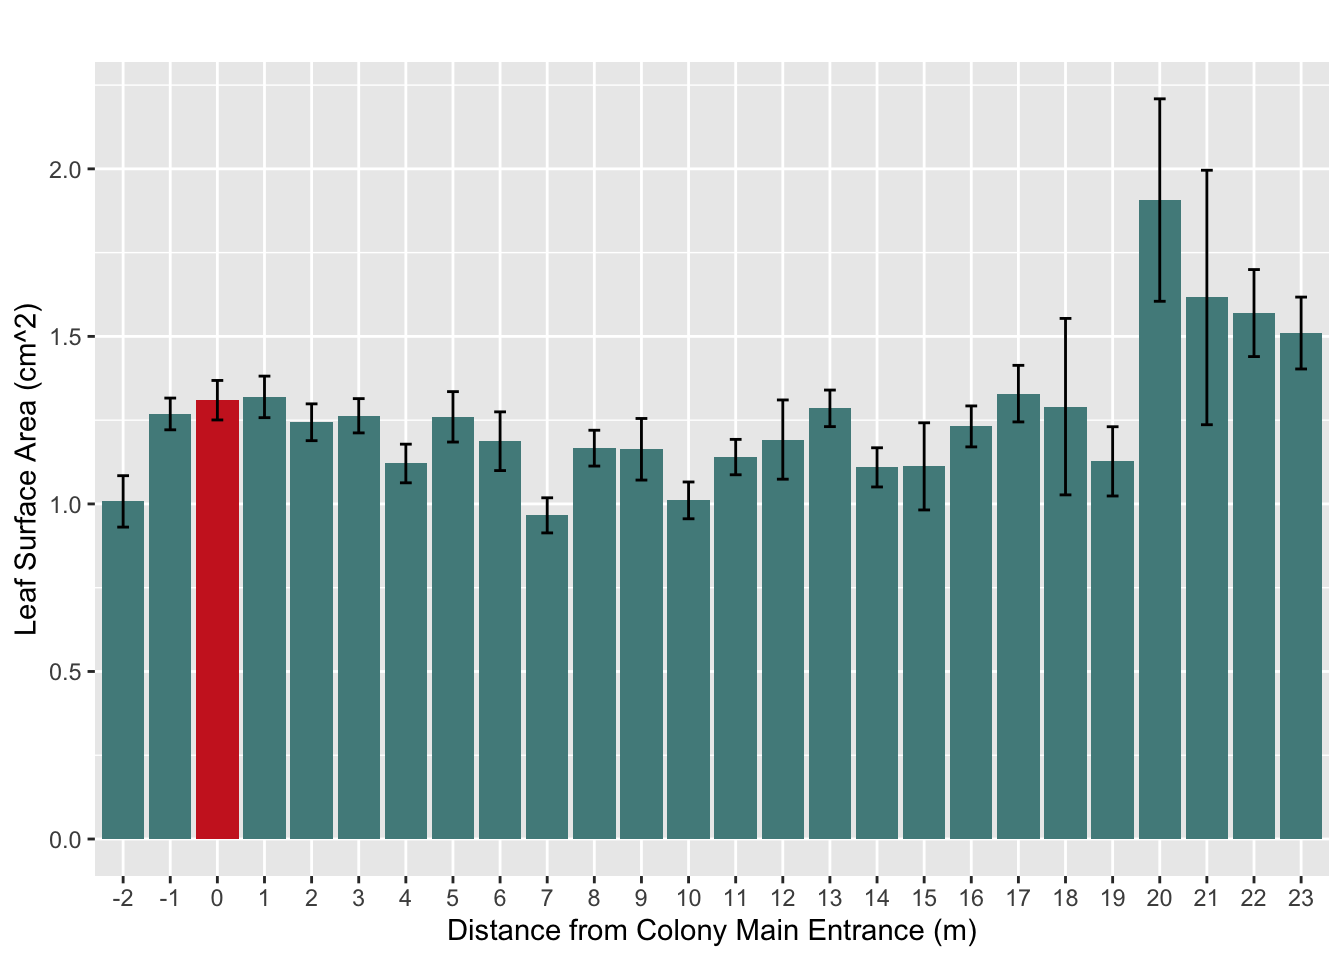
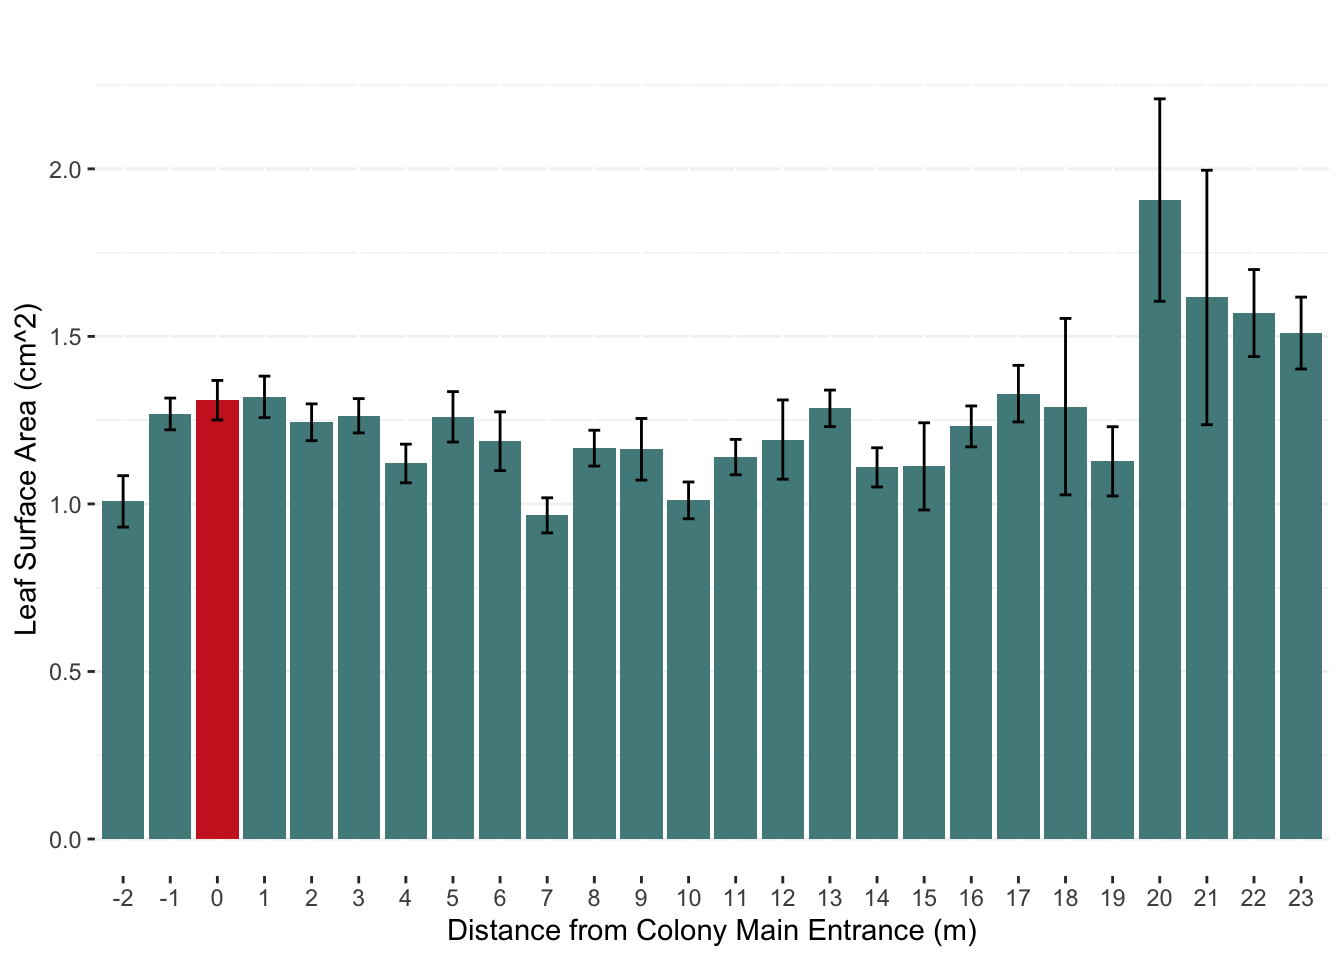
r

diff --git a/Leaf_analysis.html b/Leaf_analysis.html
@@ -162,7 +162,10 @@ pre > code.sourceCode > span > a:first-child::before { text-decoration: underlin
 <span id="cb4-10"><a href="#cb4-10" aria-hidden="true" tabindex="-1"></a>  <span class="fu">labs</span>(<span class="at">title =</span> <span class="st">""</span>,</span>
 <span id="cb4-11"><a href="#cb4-11" aria-hidden="true" tabindex="-1"></a>       <span class="at">x =</span> <span class="st">"Distance from Colony Main Entrance (m)"</span>,</span>
 <span id="cb4-12"><a href="#cb4-12" aria-hidden="true" tabindex="-1"></a>       <span class="at">y =</span> <span class="st">"Leaf Surface Area (cm^2)"</span>) <span class="sc">+</span></span>
-<span id="cb4-13"><a href="#cb4-13" aria-hidden="true" tabindex="-1"></a>  <span class="fu">theme</span>(<span class="at">legend.position =</span> <span class="st">"none"</span>)</span></code><button title="Copy to Clipboard" class="code-copy-button"><i class="bi"></i></button></pre></div>
+<span id="cb4-13"><a href="#cb4-13" aria-hidden="true" tabindex="-1"></a>  <span class="fu">theme</span>(<span class="at">legend.position =</span> <span class="st">"none"</span>,</span>
+<span id="cb4-14"><a href="#cb4-14" aria-hidden="true" tabindex="-1"></a>        <span class="at">panel.background =</span> <span class="fu">element_rect</span>(<span class="at">fill =</span> <span class="st">"white"</span>),</span>
+<span id="cb4-15"><a href="#cb4-15" aria-hidden="true" tabindex="-1"></a>        <span class="at">panel.grid =</span> <span class="fu">element_line</span>(<span class="at">color =</span> <span class="st">"gray95"</span>),</span>
+<span id="cb4-16"><a href="#cb4-16" aria-hidden="true" tabindex="-1"></a>        <span class="at">panel.grid.major.x =</span> <span class="fu">element_line</span>(<span class="at">color =</span> <span class="st">"white"</span>))</span></code><button title="Copy to Clipboard" class="code-copy-button"><i class="bi"></i></button></pre></div>
 <div class="cell-output-display">
 <p><img src="Leaf_analysis_files/figure-html/unnamed-chunk-5-1.png" class="img-fluid" width="672"></p>
 </div>
